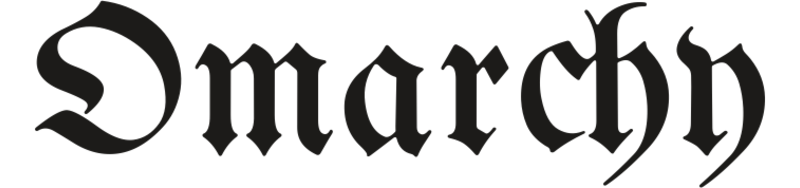
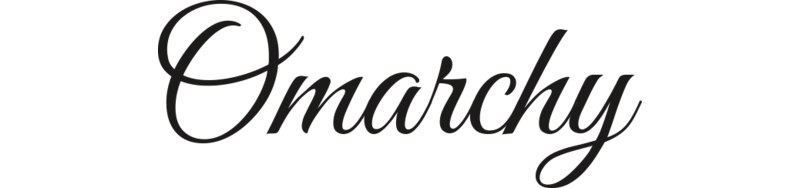
Lock screen wordmark in Great Vibes to match the signature

Changed region(s): [[0.0312, 0.0, 0.9688, 1.0], [0.375, 0.1862, 0.4062, 0.2128]]

diff --git a/CLAUDE.md b/CLAUDE.md
@@ -47,7 +47,7 @@ something (code/terminal), editorial typography. Light first; dark variant after
   dips, loops (teardrop) and underlines the word (owner's design). Light + ink versions.
   Sources must be CC0/public domain; verify captions against museum metadata; credit in
   `tools/sources/CREDITS.md`. Wikimedia rate-limits: send a User-Agent, pause between downloads.
-- Lock screen `unlock.png` = blackletter "Omarchy" in ink.
+- Lock screen `unlock.png` = "Omarchy" in Great Vibes, ink (matches the signature).
 - Fonts (owner's machine, not shippable in a theme): mono BlexMono Nerd Font (IBM Plex Mono),
   sans Libre Franklin, serif Newsreader (via ~/.config/fontconfig/conf.d/60-omapaper.conf;
   Omarchy's /etc/fonts/conf.d/50-omarchy.conf *assigns* generics, so use prepend_first matches),

diff --git a/tools/sources/CREDITS.md b/tools/sources/CREDITS.md
@@ -29,4 +29,4 @@ All from Wikimedia Commons, public domain or CC0. Wallpapers are dithered/re-ink
 Commons pages: https://commons.wikimedia.org/wiki/File:<Commons file>
 
 Fonts used in the images: Newsreader (captions), Great Vibes (signature) — SIL OFL. The signature's y-tail is hand-drawn (tools/make-signature.py).
-The lock screen uses UnifrakturMaguntia (SIL OFL).
+The lock screen uses Great Vibes (SIL OFL).
